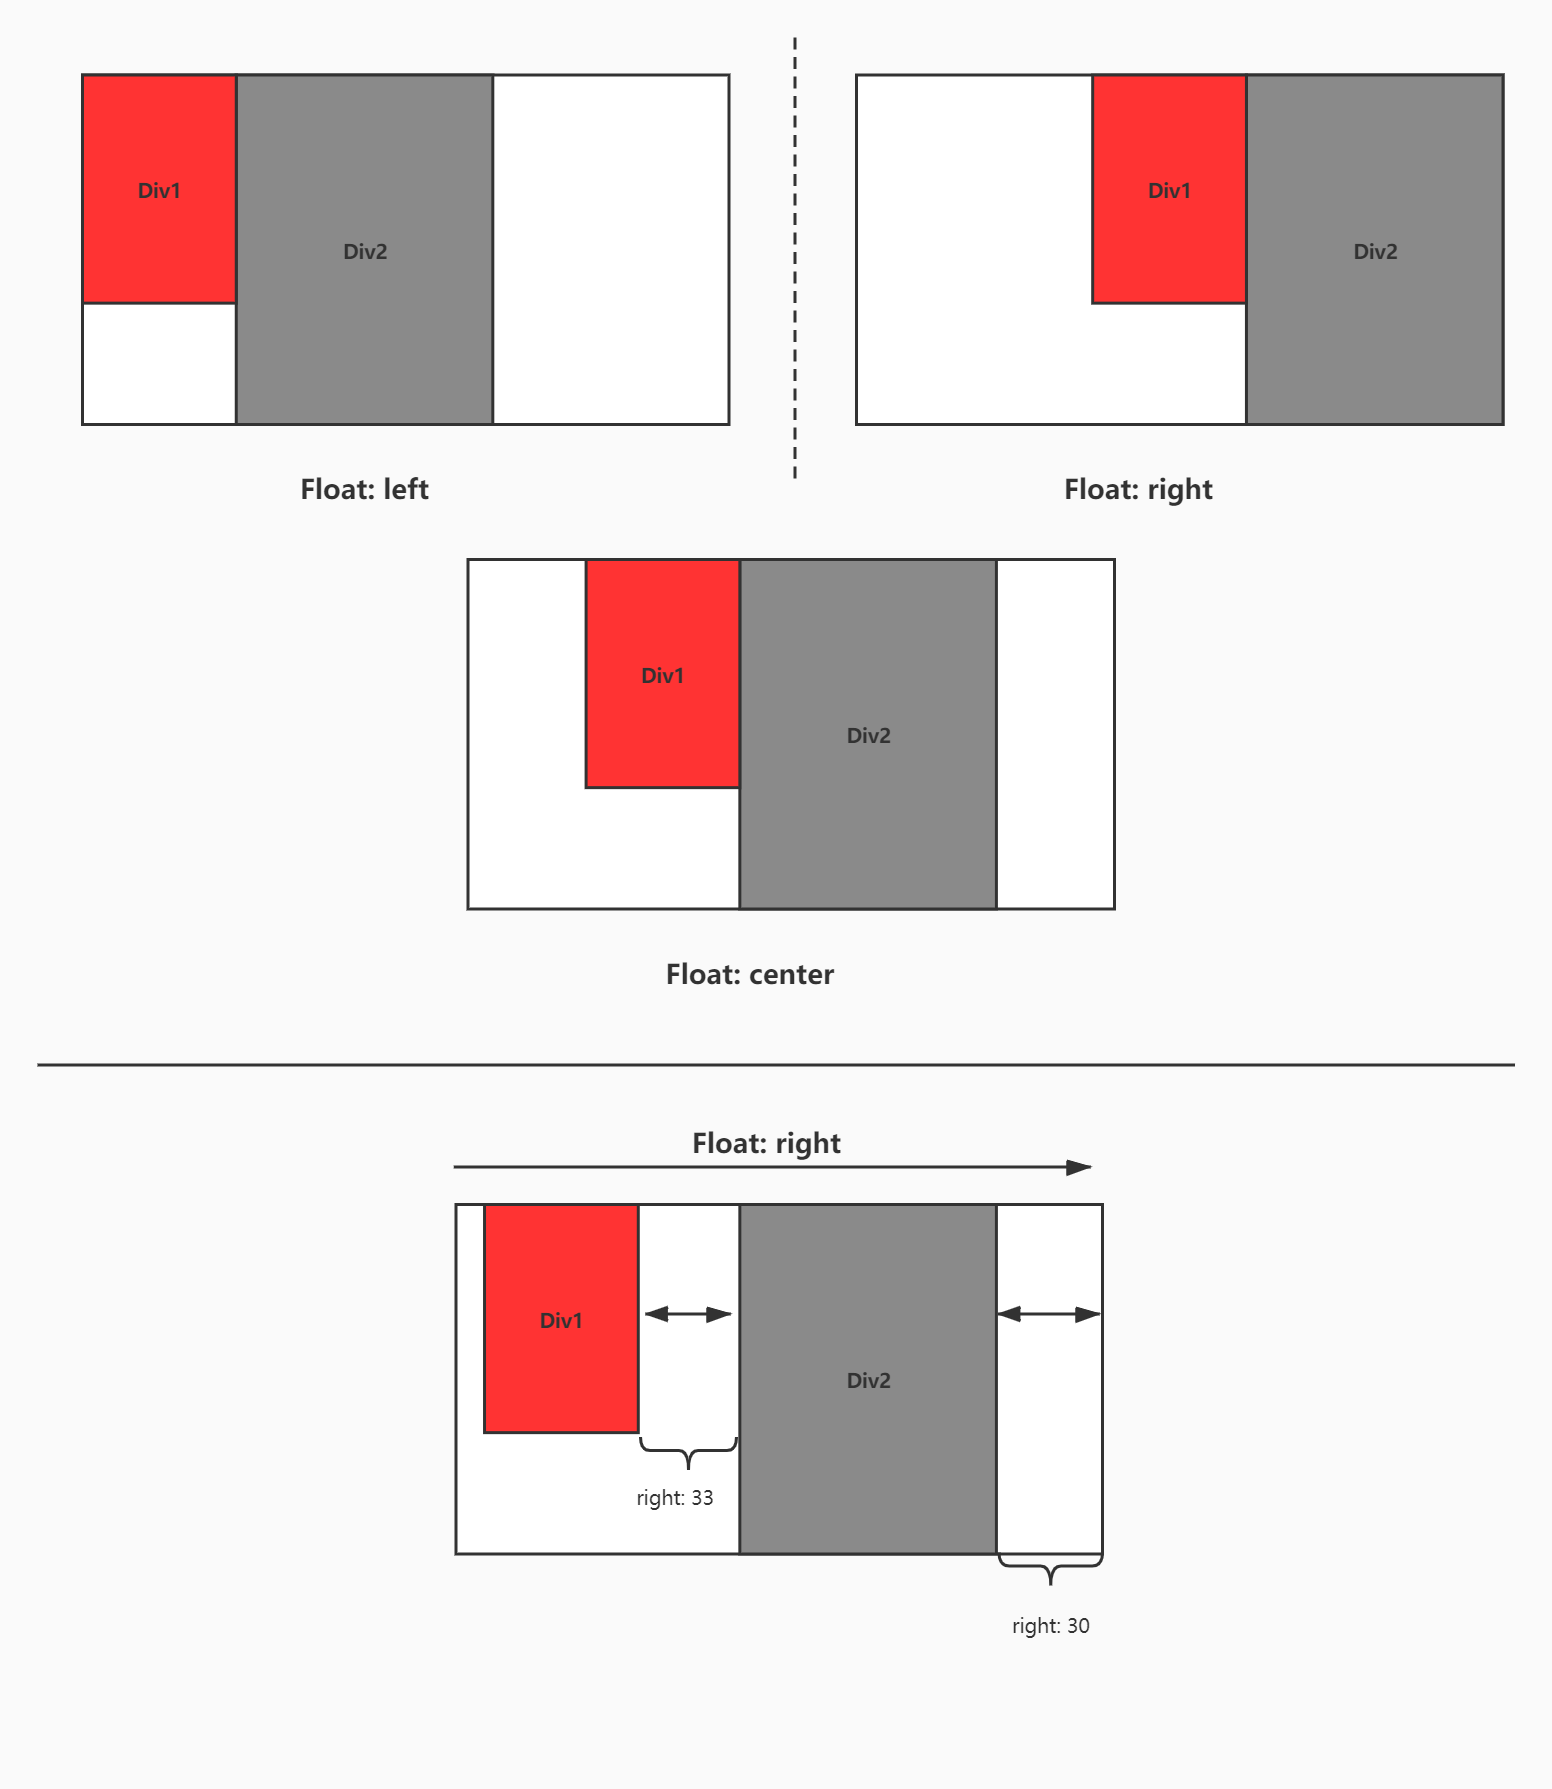
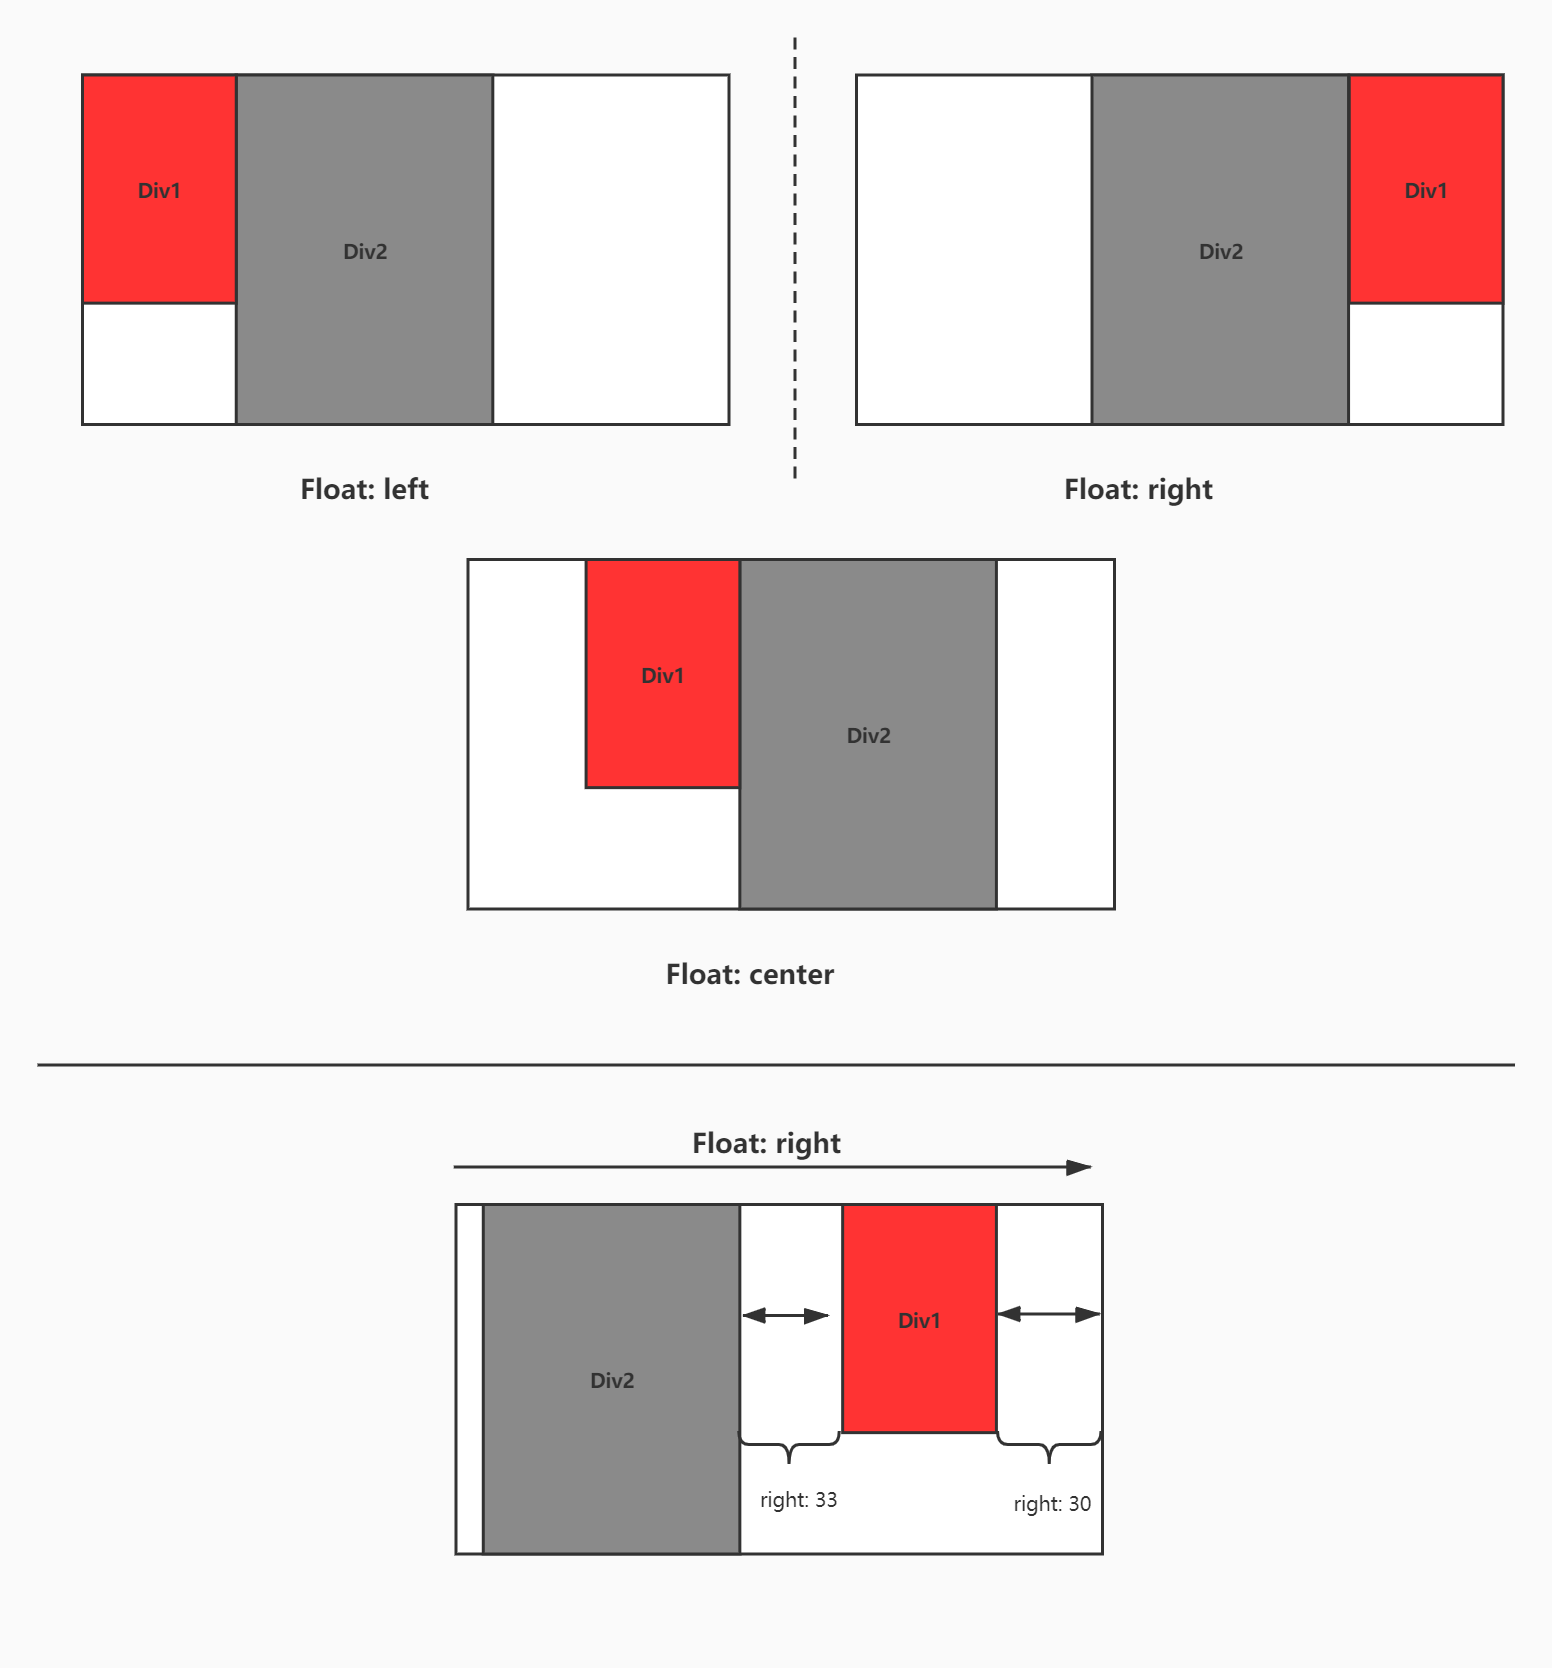
修复错误浮动定位展示图片
修复了相对定位NPE的错误

diff --git a/ofdrw-layout/src/test/java/org/ofdrw/layout/LayoutTest.java b/ofdrw-layout/src/test/java/org/ofdrw/layout/LayoutTest.java
@@ -1,0 +1,171 @@
+package org.ofdrw.layout;
+
+import org.junit.jupiter.api.Test;
+import org.ofdrw.layout.element.*;
+
+import java.io.IOException;
+import java.nio.file.Path;
+import java.nio.file.Paths;
+
+/**
+ * @author 权观宇
+ * @since 2020-03-29 12:24:42
+ */
+public class LayoutTest {
+
+    @Test
+    void test1() throws IOException {
+        Path path = Paths.get("target/Layout1.ofd");
+        try (OFDDoc ofdDoc = new OFDDoc(path)) {
+            Paragraph p = new Paragraph().setFontSize(8d).add("Float: center");
+            p.setFloat(AFloat.center).setMargin(7d);
+            ofdDoc.add(p);
+
+            Div div1 = new Div(50d, 65d)
+                    .setBackgroundColor(105, 105, 105)
+                    .setBorder(0.353)
+                    .setClear(Clear.none)
+                    .setFloat(AFloat.center);
+            Div div2 = new Div(20d, 30d)
+                    .setBackgroundColor(255, 0, 0)
+                    .setBorder(0.353)
+                    .setBorderLeft(0d)
+                    .setClear(Clear.none)
+                    .setFloat(AFloat.center);
+            ofdDoc.add(div1)
+                    .add(div2);
+
+            p = new Paragraph().setFontSize(8d).add("Float: left");
+            p.setFloat(AFloat.center).setMargin(7d);
+            ofdDoc.add(p);
+            div1 = new Div(50d, 65d)
+                    .setBackgroundColor(105, 105, 105)
+                    .setBorder(0.353)
+                    .setClear(Clear.none)
+                    .setFloat(AFloat.left);
+            div2 = new Div(20d, 30d)
+                    .setBackgroundColor(255, 0, 0)
+                    .setBorder(0.353)
+                    .setBorderLeft(0d)
+                    .setClear(Clear.none)
+                    .setFloat(AFloat.left);
+            ofdDoc.add(div1)
+                    .add(div2);
+
+            ofdDoc.add(new PageAreaFiller());
+
+            p = new Paragraph().setFontSize(8d).add("Float: right");
+            p.setFloat(AFloat.center).setMargin(7d);
+            ofdDoc.add(p);
+            div1 = new Div(50d, 65d)
+                    .setBackgroundColor(105, 105, 105)
+                    .setBorder(0.353)
+                    .setClear(Clear.none)
+                    .setFloat(AFloat.right);
+            div2 = new Div(20d, 30d)
+                    .setBackgroundColor(255, 0, 0)
+                    .setBorder(0.353)
+                    .setBorderLeft(0d)
+                    .setClear(Clear.none)
+                    .setFloat(AFloat.right);
+            ofdDoc.add(div1)
+                    .add(div2);
+        }
+        System.out.println("生成文档位置: " + path.toAbsolutePath());
+    }
+
+    @Test
+    void test2() throws IOException {
+        Path path = Paths.get("target/Layout2.ofd");
+        try (OFDDoc ofdDoc = new OFDDoc(path)) {
+            Div div1 = new Div(35d, 45d)
+                    .setBackgroundColor(105, 105, 105)
+                    .setBorder(0.353)
+                    .setFloat(AFloat.left);
+            Paragraph p1 = new Paragraph().setFontSize(8d).add("Float: Left");
+            p1.setFloat(AFloat.center).setMargin(7d);
+            ofdDoc.add(div1)
+                    .add(p1);
+
+            Div div2 = new Div(35d, 45d)
+                    .setBackgroundColor(105, 105, 105)
+                    .setBorder(0.353)
+                    .setFloat(AFloat.center);
+            Paragraph p2 = new Paragraph().setFontSize(8d).add("Float: center");
+            p2.setFloat(AFloat.center).setMargin(7d);
+            ofdDoc.add(div2)
+                    .add(p2);
+
+            Div div3 = new Div(35d, 45d)
+                    .setBackgroundColor(105, 105, 105)
+                    .setBorder(0.353)
+                    .setFloat(AFloat.right);
+            Paragraph p3 = new Paragraph().setFontSize(8d).add("Float: right");
+            p3.setFloat(AFloat.center).setMargin(7d);
+            ofdDoc.add(div3)
+                    .add(p3);
+        }
+        System.out.println("生成文档位置: " + path.toAbsolutePath());
+    }
+
+    @Test
+    void test3() throws IOException {
+        Path path = Paths.get("target/Layout3.ofd");
+        try (OFDDoc ofdDoc = new OFDDoc(path)) {
+            Paragraph normal = new Paragraph().setFontSize(8d).add("Normal");
+            normal.setFloat(AFloat.center).setMargin(7d);
+            ofdDoc.add(normal);
+            Div div1 = new Div(35d, 35d)
+                    .setClear(Clear.none)
+                    .setMargin(3d)
+                    .setBackgroundColor(0, 0, 255)
+                    .setBorder(1d);
+            Div div2 = new Div(35d, 35d)
+                    .setClear(Clear.none)
+                    .setMargin(3d)
+                    .setBackgroundColor(255, 255, 0)
+                    .setBorder(1d);
+            Div div3 = new Div(35d, 35d)
+                    .setClear(Clear.none)
+                    .setMargin(3d)
+                    .setBackgroundColor(0, 0, 255)
+                    .setBorder(1d);
+            ofdDoc.add(div1).add(div2).add(div3);
+
+
+            Paragraph relative = new Paragraph().setFontSize(8d).add("Relative");
+            relative.setFloat(AFloat.center).setMargin(7d);
+            ofdDoc.add(relative);
+            div1 = new Div(35d, 35d)
+                    .setClear(Clear.none)
+                    .setMargin(3d)
+                    .setBackgroundColor(0, 0, 255)
+                    .setBorder(1d);
+            div2 = new Div(35d, 35d)
+                    .setClear(Clear.none)
+                    .setPosition(Position.Relative)
+                    .setLeft(17d)
+                    .setTop(17d)
+                    .setMargin(3d)
+                    .setBackgroundColor(255, 255, 0)
+                    .setBorder(1d);
+
+            div3 = new Div(35d, 35d)
+                    .setClear(Clear.none)
+                    .setMargin(3d)
+                    .setBackgroundColor(0, 0, 255)
+                    .setBorder(1d);
+            ofdDoc.add(div1).add(div2).add(div3);
+        }
+    }
+
+    @Test
+    void test4() throws IOException {
+        Path path = Paths.get("target/Layout4.ofd");
+        try (OFDDoc ofdDoc = new OFDDoc(path)) {
+
+        }
+        System.out.println("生成文档位置: " + path.toAbsolutePath());
+    }
+
+}

diff --git a/ofdrw-layout/src/main/java/org/ofdrw/layout/element/Div.java b/ofdrw-layout/src/main/java/org/ofdrw/layout/element/Div.java
@@ -92,17 +92,17 @@ public class Div implements RenderPrepare, ElementSplit {
     /**
      * 相对于段的左边界距离
      */
-    private Double left = null;
+    private double left = 0d;
 
     /**
      * 相对于段的右边界距离
      */
-    private Double right = null;
+    private double right = 0d;
 
     /**
      * 相对坐标的top
      */
-    private Double top = null;
+    private double top = 0d;
 
     /**
      * 元素定位方式
@@ -186,8 +186,9 @@ public class Div implements RenderPrepare, ElementSplit {
         return top;
     }
 
-    public void setTop(Double top) {
+    public Div setTop(Double top) {
         this.top = top;
+        return this;
     }
 
     public Position getPosition() {
